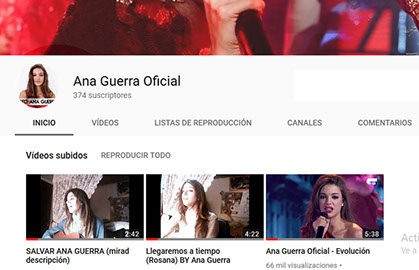
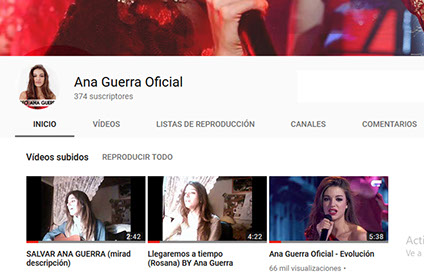
ana

diff --git a/css/fansclub.css b/css/fansclub.css
@@ -1,1 +1,1 @@
-.version.fansclub{color:#000010;background-color:#C19C21;}#page{z-index:1;width:950px;min-height:1199.9499999999994px;background-image:none;border-width:0px;border-color:#000000;background-color:#FFFFFF;border-radius:10px 0px 10px 0px ;padding-bottom:0px;margin-left:auto;margin-right:auto;}#page_position_content{padding-top:34px;width:0.01px;}#pmenuu2999{z-index:3;width:0.01px;margin-left:-32px;}#menuu2999{z-index:3;width:715px;border-width:0px;border-color:transparent;background-color:transparent;position:relative;margin-right:-10000px;margin-top:94px;left:263px;}#u3014{width:75px;min-height:45px;background-color:transparent;position:relative;margin-right:-10000px;}#u3017{width:75px;background-color:#000000;padding-bottom:23px;position:relative;}#u3017:hover{background-color:#7F7F7F;background-color:rgba(0,0,0,0.5);width:75px;min-height:0px;margin:0px;-pie-background:rgba(0,0,0,0.5);}#u3020-4{width:54px;min-height:22px;border-width:0px;border-color:transparent;background-color:transparent;line-height:22px;color:#FFFFFF;font-size:18px;text-align:center;font-family:coda, sans-serif;font-weight:400;position:relative;margin-right:-10000px;top:11px;left:10px;}#u3017:hover #u3020-4{padding-top:0px;padding-bottom:0px;min-height:22px;width:54px;margin:0px -10000px 0px 0px;}#u3017.MuseMenuActive #u3020-4{padding-top:0px;padding-bottom:0px;min-height:22px;width:54px;margin:0px -10000px 0px 0px;}#u3017:hover #u3020-4 p{color:#FFFFFF;visibility:inherit;}#u15282{width:114px;min-height:45px;background-color:transparent;position:relative;margin-right:-10000px;left:77px;}#u15283{width:114px;background-color:#000000;padding-bottom:23px;position:relative;}#u15283:hover{background-color:#7F7F7F;background-color:rgba(0,0,0,0.5);width:114px;min-height:0px;margin:0px;-pie-background:rgba(0,0,0,0.5);}#u15285-4{width:93px;min-height:22px;border-width:0px;border-color:transparent;background-color:transparent;line-height:22px;color:#FFFFFF;font-size:18px;text-align:center;font-family:coda, sans-serif;font-weight:400;position:relative;margin-right:-10000px;top:11px;left:10px;}#u15283:hover #u15285-4{padding-top:0px;padding-bottom:0px;min-height:22px;width:93px;margin:0px -10000px 0px 0px;}#u15283.MuseMenuActive #u15285-4{padding-top:0px;padding-bottom:0px;min-height:22px;width:93px;margin:0px -10000px 0px 0px;}#u15283:hover #u15285-4 p{color:#FFFFFF;visibility:inherit;}#u3021{width:118px;min-height:45px;background-color:transparent;position:relative;margin-right:-10000px;left:193px;}#u3024{width:118px;background-color:#000000;padding-bottom:23px;position:relative;}#u3024.MuseMenuActive{background-color:#7F7F7F;background-color:rgba(0,0,0,0.5);width:118px;min-height:0px;margin:0px;-pie-background:rgba(0,0,0,0.5);}#u3026-4{width:97px;min-height:22px;border-width:0px;border-color:transparent;background-color:transparent;line-height:22px;color:#FFFFFF;font-size:18px;text-align:center;font-family:coda, sans-serif;font-weight:400;position:relative;margin-right:-10000px;top:11px;left:10px;}#u3024:hover #u3026-4{padding-top:0px;padding-bottom:0px;min-height:22px;width:97px;margin:0px -10000px 0px 0px;}#u3024.MuseMenuActive #u3026-4{padding-top:0px;padding-bottom:0px;min-height:22px;width:97px;margin:0px -10000px 0px 0px;}#u3024:hover #u3026-4 p{color:#FFFFFF;visibility:inherit;}#u3007{width:202px;min-height:45px;background-color:transparent;position:relative;margin-right:-10000px;left:313px;}#u3010{width:202px;background-color:#000000;padding-bottom:23px;position:relative;}#u3010:hover{background-color:#7F7F7F;background-color:rgba(0,0,0,0.5);width:202px;min-height:0px;margin:0px;-pie-background:rgba(0,0,0,0.5);}#u3011-4{width:181px;min-height:22px;border-width:0px;border-color:transparent;background-color:transparent;line-height:22px;color:#FFFFFF;font-size:18px;text-align:center;font-family:coda, sans-serif;font-weight:400;position:relative;margin-right:-10000px;top:11px;left:10px;}#u3010:hover #u3011-4{padding-top:0px;padding-bottom:0px;min-height:22px;width:181px;margin:0px -10000px 0px 0px;}#u3010.MuseMenuActive #u3011-4{padding-top:0px;padding-bottom:0px;min-height:22px;width:181px;margin:0px -10000px 0px 0px;}#u3010:hover #u3011-4 p{color:#FFFFFF;visibility:inherit;}#u3000{width:82px;min-height:45px;background-color:transparent;position:relative;margin-right:-10000px;left:517px;}#u3001{width:82px;background-color:#000000;padding-bottom:23px;position:relative;}#u3001:hover{background-color:#7F7F7F;background-color:rgba(0,0,0,0.5);width:82px;min-height:0px;margin:0px;-pie-background:rgba(0,0,0,0.5);}#u3002-4{width:62px;min-height:22px;border-width:0px;border-color:transparent;background-color:transparent;line-height:22px;color:#FFFFFF;font-size:18px;text-align:center;font-family:coda, sans-serif;font-weight:400;position:relative;margin-right:-10000px;top:11px;left:10px;}#u3001:hover #u3002-4{padding-top:0px;padding-bottom:0px;min-height:22px;width:62px;margin:0px -10000px 0px 0px;}#u3001.MuseMenuActive #u3002-4{padding-top:0px;padding-bottom:0px;min-height:22px;width:62px;margin:0px -10000px 0px 0px;}#u3001:hover #u3002-4 p{color:#FFFFFF;visibility:inherit;}#u3028{width:114px;min-height:45px;background-color:transparent;position:relative;margin-right:-10000px;left:601px;}#u3029{width:114px;background-color:#000000;padding-bottom:23px;position:relative;}#u3029:hover{background-color:#7F7F7F;background-color:rgba(0,0,0,0.5);width:114px;min-height:0px;margin:0px;-pie-background:rgba(0,0,0,0.5);}#u3031-4{width:94px;min-height:22px;border-width:0px;border-color:transparent;background-color:transparent;line-height:22px;color:#FFFFFF;font-size:18px;text-align:center;font-family:coda, sans-serif;font-weight:400;position:relative;margin-right:-10000px;top:11px;left:10px;}#u3029:hover #u3031-4{padding-top:0px;padding-bottom:0px;min-height:22px;width:94px;margin:0px -10000px 0px 0px;}#u3029.MuseMenuActive #u3031-4{padding-top:0px;padding-bottom:0px;min-height:22px;width:94px;margin:0px -10000px 0px 0px;}#u3029:hover #u3031-4 p{color:#FFFFFF;visibility:inherit;}.MenuItem{cursor:pointer;}#u2979-4{z-index:60;display:block;vertical-align:top;position:relative;margin-right:-10000px;left:269px;}#u14046{z-index:199;width:250px;background-color:#FFFFFF;background-color:rgba(255,255,255,0.44);border-radius:50px 0px 0px 0px ;position:relative;margin-right:-10000px;margin-top:2px;-pie-background:rgba(255,255,255,0.44);}#u14047-3{z-index:200;width:177px;min-height:51px;background-color:transparent;color:#FFFFFF;font-size:34px;line-height:41px;font-family:coda, sans-serif;font-weight:400;position:relative;margin-right:-10000px;margin-top:11px;left:43px;}#u14048{z-index:203;width:162px;background-color:transparent;opacity:0.64;-ms-filter:"progid:DXImageTransform.Microsoft.Alpha(Opacity=64)";filter:alpha(opacity=64);position:relative;margin-right:-10000px;margin-top:-28px;left:44px;}#u14048_img{margin-left:-15px;margin-right:-15px;}#u14050-4{z-index:205;display:block;vertical-align:top;margin-bottom:-10px;position:relative;margin-right:-10000px;margin-top:119px;left:43px;}#u14051{z-index:209;width:120px;background-color:transparent;position:relative;margin-right:-10000px;margin-top:54px;left:71px;}#u17003-4{z-index:213;width:187px;min-height:15px;text-shadow:0px 0px 23px #FFFFFF,0px 0px 23px #FFFFFF;box-shadow:none;background-color:transparent;letter-spacing:3px;color:#000000;font-size:8px;line-height:10px;font-family:coda, sans-serif;font-weight:400;position:relative;margin-right:-10000px;margin-top:110px;left:44px;}#pu2997{z-index:43;width:0.01px;margin-left:-302px;margin-top:21px;}#u2997{z-index:43;width:1391px;background-color:transparent;position:relative;margin-right:-10000px;left:98px;}#u2997_img{padding-top:2px;padding-right:10px;padding-bottom:2px;}#u3036{z-index:45;width:547px;height:52px;background-color:#FFFFFF;position:relative;margin-right:-10000px;margin-top:481px;}#u2967-5{z-index:46;position:relative;margin-right:-10000px;width:217px;margin-top:496px;left:322px;}#u2967-5_img{display:block;vertical-align:top;}#ppu3072-6{z-index:0;width:0.01px;margin-left:-14px;margin-top:53px;}#pu3072-6{z-index:65;width:0.01px;margin-right:-10000px;margin-left:535px;}#u3072-6{z-index:65;width:436px;min-height:37px;background-color:transparent;font-size:22px;text-align:center;line-height:26px;position:relative;margin-right:-10000px;left:3px;}#u3073-4{z-index:71;width:443px;min-height:2px;background-color:transparent;position:relative;margin-right:-10000px;margin-top:13px;}#u2987-5{z-index:51;width:436px;min-height:37px;background-color:transparent;font-size:22px;text-align:center;line-height:26px;position:relative;margin-right:-10000px;left:3px;}#u3040-4{z-index:56;width:443px;min-height:2px;background-color:transparent;position:relative;margin-right:-10000px;margin-top:13px;}#pu3060{z-index:64;width:0.01px;margin-right:-10000px;margin-left:538px;}#u3060{z-index:64;width:442px;height:290px;background-color:#E2E2E2;background-color:rgba(127,127,127,0.22);border-radius:14px;position:relative;margin-right:-10000px;-pie-background:rgba(127,127,127,0.22);}#u3100{z-index:77;width:424px;background-color:transparent;position:relative;margin-right:-10000px;margin-top:8px;left:9px;}#u3100:hover{width:424px;min-height:0px;margin:8px -10000px 0px 0px;}#u2966{z-index:2;width:442px;height:290px;background-color:#E2E2E2;background-color:rgba(127,127,127,0.22);border-radius:14px;position:relative;margin-right:-10000px;-pie-background:rgba(127,127,127,0.22);}#u3090{z-index:75;width:424px;background-color:transparent;position:relative;margin-right:-10000px;margin-top:8px;left:8px;}#u3090:hover{width:424px;min-height:0px;margin:8px -10000px 0px 0px;}#ppu8604-5{z-index:0;width:0.01px;margin-left:-14px;margin-top:51px;}#pu8604-5{z-index:124;width:0.01px;margin-right:-10000px;margin-left:538px;}#u8604-5{z-index:124;width:436px;min-height:37px;background-color:transparent;font-size:22px;text-align:center;line-height:26px;position:relative;margin-right:-10000px;left:3px;}#u8605-4{z-index:129;width:443px;min-height:2px;background-color:transparent;position:relative;margin-right:-10000px;margin-top:13px;}#u8585-5{z-index:112;width:436px;min-height:37px;background-color:transparent;font-size:22px;text-align:center;line-height:26px;position:relative;margin-right:-10000px;left:3px;}#u8586-4{z-index:117;width:443px;min-height:2px;background-color:transparent;position:relative;margin-right:-10000px;margin-top:13px;}#ppu3060,#ppu8603{z-index:0;width:0.01px;margin-left:-17px;margin-top:11px;}#pu8603{z-index:123;width:0.01px;margin-right:-10000px;margin-left:538px;}#u8603{z-index:123;width:442px;height:290px;background-color:#E2E2E2;background-color:rgba(127,127,127,0.22);border-radius:14px;position:relative;margin-right:-10000px;-pie-background:rgba(127,127,127,0.22);}#u8606{z-index:133;width:424px;background-color:transparent;position:relative;margin-right:-10000px;margin-top:8px;left:8px;}#u8606:hover{width:424px;min-height:0px;margin:8px -10000px 0px 0px;}#u8584{z-index:111;width:442px;height:290px;background-color:#E2E2E2;background-color:rgba(127,127,127,0.22);border-radius:14px;position:relative;margin-right:-10000px;-pie-background:rgba(127,127,127,0.22);}#u8587{z-index:121;width:424px;background-color:transparent;position:relative;margin-right:-10000px;margin-top:8px;left:8px;}#u8587:hover{width:424px;min-height:0px;margin:8px -10000px 0px 0px;}#u3100:hover::before,#u3090:hover::before,#u8606:hover::before,#u8587:hover::before{content:"";position:absolute;pointer-events:none;top:0px;left:0px;bottom:0px;right:0px;box-shadow:inset 3px 3px 4px rgba(255,255,255,0.75), inset -3px -3px 4px rgba(0,0,0,0.75);}#pu21413-4{z-index:241;width:0.01px;margin-left:-11px;margin-top:64px;}#u21413-4{z-index:241;width:436px;min-height:37px;background-color:transparent;font-size:22px;text-align:center;line-height:26px;position:relative;margin-right:-10000px;}#u21416-4{z-index:245;width:436px;min-height:37px;background-color:transparent;font-size:22px;text-align:center;line-height:26px;position:relative;margin-right:-10000px;left:538px;}#u3072-2,#u2987-2,#u8604-2,#u8585-2,#u21413,#u21416{font-weight:bold;}#ppu21410{z-index:0;width:0.01px;margin-left:-17px;}#pu21410{z-index:240;width:0.01px;margin-right:-10000px;margin-top:9px;margin-left:538px;}#u21410{z-index:240;width:442px;height:290px;background-color:#E2E2E2;background-color:rgba(127,127,127,0.22);border-radius:14px;position:relative;margin-right:-10000px;-pie-background:rgba(127,127,127,0.22);}#u21427{z-index:251;width:419px;background-color:transparent;position:relative;margin-right:-10000px;margin-top:11px;left:10px;}#u21407{z-index:239;width:442px;height:290px;background-color:#E2E2E2;background-color:rgba(127,127,127,0.22);border-radius:14px;position:relative;margin-right:-10000px;-pie-background:rgba(127,127,127,0.22);}#u21419{z-index:249;width:421px;background-color:transparent;position:relative;margin-right:-10000px;margin-top:10px;left:9px;}#u21419_img{margin-left:-27px;margin-bottom:-18px;}#pu10013-4{z-index:135;width:0.01px;margin-left:233px;margin-top:101px;}#u10013-4{z-index:135;display:block;vertical-align:top;position:relative;margin-right:-10000px;left:133px;}#u10014-4{z-index:139;display:block;vertical-align:top;position:relative;margin-right:-10000px;margin-top:20px;}#ppu10123{z-index:143;width:0.01px;margin-left:55px;margin-top:20px;}#u10123{z-index:144;height:128px;width:126px;vertical-align:top;position:relative;margin-right:-10000px;margin-top:4px;background:transparent url("../images/u10123.png?crc=59268028") no-repeat 0px 0px;}#u10123:hover{background:transparent url("../images/u10123-r.png?crc=4068604634") no-repeat 0px 0px;}#u10135{z-index:147;height:128px;width:126px;vertical-align:top;position:relative;margin-right:-10000px;margin-top:4px;left:177px;background:transparent url("../images/u10135.png?crc=482554874") no-repeat 0px 0px;}#u10135:hover{background:transparent url("../images/u10135-r.png?crc=4097417959") no-repeat 0px 0px;}#u10147{z-index:150;height:128px;width:126px;vertical-align:top;position:relative;margin-right:-10000px;margin-top:4px;left:355px;background:transparent url("../images/u10147.png?crc=71538605") no-repeat 0px 0px;}#u10147:hover{background:transparent url("../images/u10147-r.png?crc=104320117") no-repeat 0px 0px;}#u10159{z-index:153;height:132px;width:130px;vertical-align:top;position:relative;margin-right:-10000px;left:532px;background:transparent url("../images/u10159.png?crc=504944853") no-repeat 0px 0px;}#u10159:hover{background:transparent url("../images/u10159-r.png?crc=4056053435") no-repeat 0px 0px;}#u10264{z-index:156;height:128px;width:126px;vertical-align:top;position:relative;margin-right:-10000px;left:714px;background:transparent url("../images/u10264.png?crc=4179378580") no-repeat 0px 0px;}#u10264:hover{background:transparent url("../images/u10264-r.png?crc=82452445") no-repeat 0px 0px;}#pu13918-4{z-index:167;width:0.01px;margin-left:55px;margin-top:-4px;}#u13918-4{z-index:167;display:block;vertical-align:top;position:relative;margin-right:-10000px;margin-top:5px;}#u13921-4{z-index:171;display:block;vertical-align:top;position:relative;margin-right:-10000px;margin-top:5px;left:178px;}#u13933-4{z-index:187;display:block;vertical-align:top;position:relative;margin-right:-10000px;margin-top:5px;left:355px;}#u13936-4{z-index:191;display:block;vertical-align:top;position:relative;margin-right:-10000px;margin-top:5px;left:532px;}#u13939-4{z-index:195;display:block;vertical-align:top;position:relative;margin-right:-10000px;left:714px;}#ppu10274{z-index:158;width:0.01px;margin-left:55px;margin-top:30px;}#u10274{z-index:159;height:128px;width:126px;vertical-align:top;position:relative;margin-right:-10000px;margin-top:2px;background:transparent url("../images/u10274.png?crc=304088110") no-repeat 0px 0px;}#u10274:hover{background:transparent url("../images/u10274-r.png?crc=208522902") no-repeat 0px 0px;}#u13894{z-index:162;height:128px;width:126px;vertical-align:top;position:relative;margin-right:-10000px;margin-top:2px;left:177px;background:transparent url("../images/u13894.png?crc=513755857") no-repeat 0px 0px;}#u13894:hover{background:transparent url("../images/u13894-r.png?crc=3779060973") no-repeat 0px 0px;}#u13904{z-index:165;height:128px;width:126px;vertical-align:top;position:relative;margin-right:-10000px;margin-top:2px;left:355px;background:transparent url("../images/u13904.png?crc=3989474495") no-repeat 0px 0px;}#u13904:hover{background:transparent url("../images/u13904-r.png?crc=93106867") no-repeat 0px 0px;}#u17974{z-index:218;height:132px;width:130px;vertical-align:top;position:relative;margin-right:-10000px;left:533px;background:transparent url("../images/u17974.png?crc=3998990833") no-repeat 0px 0px;}#u17974:hover{background:transparent url("../images/u17974-r.png?crc=495730760") no-repeat 0px 0px;}#u20165{z-index:225;height:128px;width:126px;vertical-align:top;position:relative;margin-right:-10000px;margin-top:2px;left:714px;background:transparent url("../images/u20165.png?crc=469558459") no-repeat 0px 0px;}#u20165:hover{background:transparent url("../images/u20165-r.png?crc=353145026") no-repeat 0px 0px;}#pu13930-4{z-index:183;width:0.01px;margin-left:55px;margin-top:-2px;}#u13930-4{z-index:183;display:block;vertical-align:top;position:relative;margin-right:-10000px;}#u13924-4{z-index:175;display:block;vertical-align:top;position:relative;margin-right:-10000px;left:178px;}#u13927-4{z-index:179;display:block;vertical-align:top;position:relative;margin-right:-10000px;left:355px;}#u17984-4{z-index:220;display:block;vertical-align:top;position:relative;margin-right:-10000px;left:533px;}#u20175-4{z-index:227;display:block;vertical-align:top;position:relative;margin-right:-10000px;left:714px;}#u21316{z-index:232;height:128px;width:126px;vertical-align:top;margin-left:55px;margin-top:33px;position:relative;background:transparent url("../images/u21316.png?crc=3568908") no-repeat 0px 0px;}#u21316:hover{background:transparent url("../images/u21316-r.png?crc=136411771") no-repeat 0px 0px;}#u21328-5{z-index:234;display:block;vertical-align:top;margin-left:55px;position:relative;}#u14640{z-index:211;width:50px;background-color:transparent;opacity:0.7;-ms-filter:"progid:DXImageTransform.Microsoft.Alpha(Opacity=70)";filter:alpha(opacity=70);margin-left:900px;margin-top:841px;position:relative;}#pu4091-4{z-index:80;width:0.01px;margin-left:198px;margin-top:37px;}#u4091-4{z-index:80;width:354px;min-height:35px;background-color:transparent;line-height:22px;color:#FFFFFF;font-size:18px;text-align:center;font-weight:normal;position:relative;margin-right:-10000px;left:100px;}#u4094-4{z-index:84;width:553px;min-height:2px;background-color:transparent;color:#FFFFFF;position:relative;margin-right:-10000px;margin-top:18px;}#pu4132-4{z-index:103;width:0.01px;margin-left:71px;margin-top:20px;}#u4132-4{z-index:103;width:74px;min-height:17px;background-color:transparent;color:#FFFFFF;font-size:16px;text-align:center;line-height:19px;position:relative;margin-right:-10000px;}#u4129-4{z-index:99;width:74px;min-height:17px;background-color:transparent;color:#FFFFFF;font-size:16px;text-align:center;line-height:19px;position:relative;margin-right:-10000px;left:367px;}#u4123-4{z-index:95;width:185px;min-height:17px;background-color:transparent;color:#FFFFFF;font-size:16px;text-align:center;line-height:19px;position:relative;margin-right:-10000px;left:677px;}#pu4135{z-index:107;width:0.01px;margin-left:-16px;margin-top:7px;}#u4135{z-index:107;width:248px;background-color:transparent;position:relative;margin-right:-10000px;}#u4145{z-index:109;width:249px;background-color:transparent;position:relative;margin-right:-10000px;left:366px;}#u4113{z-index:93;width:247px;background-color:transparent;position:relative;margin-right:-10000px;margin-top:1px;left:733px;}#pu2984-3{z-index:40;width:0.01px;margin-left:35px;margin-top:62px;}#u2984-3{z-index:40;width:132px;background-color:transparent;position:relative;margin-right:-10000px;margin-top:4px;}#u4098-4{z-index:89;width:369px;min-height:21px;background-color:transparent;position:relative;margin-right:-10000px;left:254px;}.css_verticalspacer .verticalspacer{height:calc(100vh - 3933px);}#u4088{z-index:79;width:1406px;height:296px;background-color:#000000;left:-214px;top:-337px;margin-bottom:-296px;position:relative;}#u4097{z-index:88;width:1406px;height:103px;background-color:#7F7F7F;left:-214px;top:-41px;margin-bottom:-41px;position:relative;}#muse_css_mq,.html{background-color:#FFFFFF;}body{position:relative;min-width:950px;}
+.version.fansclub{color:#0000F4;background-color:#D65385;}#page{z-index:1;width:950px;min-height:1199.9499999999994px;background-image:none;border-width:0px;border-color:#000000;background-color:#FFFFFF;border-radius:10px 0px 10px 0px ;padding-bottom:0px;margin-left:auto;margin-right:auto;}#page_position_content{padding-top:34px;width:0.01px;}#pmenuu2999{z-index:3;width:0.01px;margin-left:-32px;}#menuu2999{z-index:3;width:715px;border-width:0px;border-color:transparent;background-color:transparent;position:relative;margin-right:-10000px;margin-top:94px;left:263px;}#u3014{width:75px;min-height:45px;background-color:transparent;position:relative;margin-right:-10000px;}#u3017{width:75px;background-color:#000000;padding-bottom:23px;position:relative;}#u3017:hover{background-color:#7F7F7F;background-color:rgba(0,0,0,0.5);width:75px;min-height:0px;margin:0px;-pie-background:rgba(0,0,0,0.5);}#u3020-4{width:54px;min-height:22px;border-width:0px;border-color:transparent;background-color:transparent;line-height:22px;color:#FFFFFF;font-size:18px;text-align:center;font-family:coda, sans-serif;font-weight:400;position:relative;margin-right:-10000px;top:11px;left:10px;}#u3017:hover #u3020-4{padding-top:0px;padding-bottom:0px;min-height:22px;width:54px;margin:0px -10000px 0px 0px;}#u3017.MuseMenuActive #u3020-4{padding-top:0px;padding-bottom:0px;min-height:22px;width:54px;margin:0px -10000px 0px 0px;}#u3017:hover #u3020-4 p{color:#FFFFFF;visibility:inherit;}#u15282{width:114px;min-height:45px;background-color:transparent;position:relative;margin-right:-10000px;left:77px;}#u15283{width:114px;background-color:#000000;padding-bottom:23px;position:relative;}#u15283:hover{background-color:#7F7F7F;background-color:rgba(0,0,0,0.5);width:114px;min-height:0px;margin:0px;-pie-background:rgba(0,0,0,0.5);}#u15285-4{width:93px;min-height:22px;border-width:0px;border-color:transparent;background-color:transparent;line-height:22px;color:#FFFFFF;font-size:18px;text-align:center;font-family:coda, sans-serif;font-weight:400;position:relative;margin-right:-10000px;top:11px;left:10px;}#u15283:hover #u15285-4{padding-top:0px;padding-bottom:0px;min-height:22px;width:93px;margin:0px -10000px 0px 0px;}#u15283.MuseMenuActive #u15285-4{padding-top:0px;padding-bottom:0px;min-height:22px;width:93px;margin:0px -10000px 0px 0px;}#u15283:hover #u15285-4 p{color:#FFFFFF;visibility:inherit;}#u3021{width:118px;min-height:45px;background-color:transparent;position:relative;margin-right:-10000px;left:193px;}#u3024{width:118px;background-color:#000000;padding-bottom:23px;position:relative;}#u3024.MuseMenuActive{background-color:#7F7F7F;background-color:rgba(0,0,0,0.5);width:118px;min-height:0px;margin:0px;-pie-background:rgba(0,0,0,0.5);}#u3026-4{width:97px;min-height:22px;border-width:0px;border-color:transparent;background-color:transparent;line-height:22px;color:#FFFFFF;font-size:18px;text-align:center;font-family:coda, sans-serif;font-weight:400;position:relative;margin-right:-10000px;top:11px;left:10px;}#u3024:hover #u3026-4{padding-top:0px;padding-bottom:0px;min-height:22px;width:97px;margin:0px -10000px 0px 0px;}#u3024.MuseMenuActive #u3026-4{padding-top:0px;padding-bottom:0px;min-height:22px;width:97px;margin:0px -10000px 0px 0px;}#u3024:hover #u3026-4 p{color:#FFFFFF;visibility:inherit;}#u3007{width:202px;min-height:45px;background-color:transparent;position:relative;margin-right:-10000px;left:313px;}#u3010{width:202px;background-color:#000000;padding-bottom:23px;position:relative;}#u3010:hover{background-color:#7F7F7F;background-color:rgba(0,0,0,0.5);width:202px;min-height:0px;margin:0px;-pie-background:rgba(0,0,0,0.5);}#u3011-4{width:181px;min-height:22px;border-width:0px;border-color:transparent;background-color:transparent;line-height:22px;color:#FFFFFF;font-size:18px;text-align:center;font-family:coda, sans-serif;font-weight:400;position:relative;margin-right:-10000px;top:11px;left:10px;}#u3010:hover #u3011-4{padding-top:0px;padding-bottom:0px;min-height:22px;width:181px;margin:0px -10000px 0px 0px;}#u3010.MuseMenuActive #u3011-4{padding-top:0px;padding-bottom:0px;min-height:22px;width:181px;margin:0px -10000px 0px 0px;}#u3010:hover #u3011-4 p{color:#FFFFFF;visibility:inherit;}#u3000{width:82px;min-height:45px;background-color:transparent;position:relative;margin-right:-10000px;left:517px;}#u3001{width:82px;background-color:#000000;padding-bottom:23px;position:relative;}#u3001:hover{background-color:#7F7F7F;background-color:rgba(0,0,0,0.5);width:82px;min-height:0px;margin:0px;-pie-background:rgba(0,0,0,0.5);}#u3002-4{width:62px;min-height:22px;border-width:0px;border-color:transparent;background-color:transparent;line-height:22px;color:#FFFFFF;font-size:18px;text-align:center;font-family:coda, sans-serif;font-weight:400;position:relative;margin-right:-10000px;top:11px;left:10px;}#u3001:hover #u3002-4{padding-top:0px;padding-bottom:0px;min-height:22px;width:62px;margin:0px -10000px 0px 0px;}#u3001.MuseMenuActive #u3002-4{padding-top:0px;padding-bottom:0px;min-height:22px;width:62px;margin:0px -10000px 0px 0px;}#u3001:hover #u3002-4 p{color:#FFFFFF;visibility:inherit;}#u3028{width:114px;min-height:45px;background-color:transparent;position:relative;margin-right:-10000px;left:601px;}#u3029{width:114px;background-color:#000000;padding-bottom:23px;position:relative;}#u3029:hover{background-color:#7F7F7F;background-color:rgba(0,0,0,0.5);width:114px;min-height:0px;margin:0px;-pie-background:rgba(0,0,0,0.5);}#u3031-4{width:94px;min-height:22px;border-width:0px;border-color:transparent;background-color:transparent;line-height:22px;color:#FFFFFF;font-size:18px;text-align:center;font-family:coda, sans-serif;font-weight:400;position:relative;margin-right:-10000px;top:11px;left:10px;}#u3029:hover #u3031-4{padding-top:0px;padding-bottom:0px;min-height:22px;width:94px;margin:0px -10000px 0px 0px;}#u3029.MuseMenuActive #u3031-4{padding-top:0px;padding-bottom:0px;min-height:22px;width:94px;margin:0px -10000px 0px 0px;}#u3029:hover #u3031-4 p{color:#FFFFFF;visibility:inherit;}.MenuItem{cursor:pointer;}#u2979-4{z-index:60;display:block;vertical-align:top;position:relative;margin-right:-10000px;left:269px;}#u14046{z-index:199;width:250px;background-color:#FFFFFF;background-color:rgba(255,255,255,0.44);border-radius:50px 0px 0px 0px ;position:relative;margin-right:-10000px;margin-top:2px;-pie-background:rgba(255,255,255,0.44);}#u14047-3{z-index:200;width:177px;min-height:51px;background-color:transparent;color:#FFFFFF;font-size:34px;line-height:41px;font-family:coda, sans-serif;font-weight:400;position:relative;margin-right:-10000px;margin-top:11px;left:43px;}#u14048{z-index:203;width:162px;background-color:transparent;opacity:0.64;-ms-filter:"progid:DXImageTransform.Microsoft.Alpha(Opacity=64)";filter:alpha(opacity=64);position:relative;margin-right:-10000px;margin-top:-28px;left:44px;}#u14048_img{margin-left:-15px;margin-right:-15px;}#u14050-4{z-index:205;display:block;vertical-align:top;margin-bottom:-10px;position:relative;margin-right:-10000px;margin-top:119px;left:43px;}#u14051{z-index:209;width:120px;background-color:transparent;position:relative;margin-right:-10000px;margin-top:54px;left:71px;}#u17003-4{z-index:213;width:187px;min-height:15px;text-shadow:0px 0px 23px #FFFFFF,0px 0px 23px #FFFFFF;box-shadow:none;background-color:transparent;letter-spacing:3px;color:#000000;font-size:8px;line-height:10px;font-family:coda, sans-serif;font-weight:400;position:relative;margin-right:-10000px;margin-top:110px;left:44px;}#pu2997{z-index:43;width:0.01px;margin-left:-302px;margin-top:21px;}#u2997{z-index:43;width:1391px;background-color:transparent;position:relative;margin-right:-10000px;left:98px;}#u2997_img{padding-top:2px;padding-right:10px;padding-bottom:2px;}#u3036{z-index:45;width:547px;height:52px;background-color:#FFFFFF;position:relative;margin-right:-10000px;margin-top:481px;}#u2967-5{z-index:46;position:relative;margin-right:-10000px;width:217px;margin-top:496px;left:322px;}#u2967-5_img{display:block;vertical-align:top;}#ppu3072-6{z-index:0;width:0.01px;margin-left:-14px;margin-top:53px;}#pu3072-6{z-index:65;width:0.01px;margin-right:-10000px;margin-left:535px;}#u3072-6{z-index:65;width:436px;min-height:37px;background-color:transparent;font-size:22px;text-align:center;line-height:26px;position:relative;margin-right:-10000px;left:3px;}#u3073-4{z-index:71;width:443px;min-height:2px;background-color:transparent;position:relative;margin-right:-10000px;margin-top:13px;}#u2987-5{z-index:51;width:436px;min-height:37px;background-color:transparent;font-size:22px;text-align:center;line-height:26px;position:relative;margin-right:-10000px;left:3px;}#u3040-4{z-index:56;width:443px;min-height:2px;background-color:transparent;position:relative;margin-right:-10000px;margin-top:13px;}#pu3060{z-index:64;width:0.01px;margin-right:-10000px;margin-left:538px;}#u3060{z-index:64;width:442px;height:290px;background-color:#E2E2E2;background-color:rgba(127,127,127,0.22);border-radius:14px;position:relative;margin-right:-10000px;-pie-background:rgba(127,127,127,0.22);}#u3100{z-index:77;width:424px;background-color:transparent;position:relative;margin-right:-10000px;margin-top:8px;left:9px;}#u3100:hover{width:424px;min-height:0px;margin:8px -10000px 0px 0px;}#u2966{z-index:2;width:442px;height:290px;background-color:#E2E2E2;background-color:rgba(127,127,127,0.22);border-radius:14px;position:relative;margin-right:-10000px;-pie-background:rgba(127,127,127,0.22);}#u3090{z-index:75;width:424px;background-color:transparent;position:relative;margin-right:-10000px;margin-top:8px;left:8px;}#u3090:hover{width:424px;min-height:0px;margin:8px -10000px 0px 0px;}#ppu8604-5{z-index:0;width:0.01px;margin-left:-14px;margin-top:51px;}#pu8604-5{z-index:124;width:0.01px;margin-right:-10000px;margin-left:538px;}#u8604-5{z-index:124;width:436px;min-height:37px;background-color:transparent;font-size:22px;text-align:center;line-height:26px;position:relative;margin-right:-10000px;left:3px;}#u8605-4{z-index:129;width:443px;min-height:2px;background-color:transparent;position:relative;margin-right:-10000px;margin-top:13px;}#u8585-5{z-index:112;width:436px;min-height:37px;background-color:transparent;font-size:22px;text-align:center;line-height:26px;position:relative;margin-right:-10000px;left:3px;}#u8586-4{z-index:117;width:443px;min-height:2px;background-color:transparent;position:relative;margin-right:-10000px;margin-top:13px;}#ppu3060,#ppu8603{z-index:0;width:0.01px;margin-left:-17px;margin-top:11px;}#pu8603{z-index:123;width:0.01px;margin-right:-10000px;margin-left:538px;}#u8603{z-index:123;width:442px;height:290px;background-color:#E2E2E2;background-color:rgba(127,127,127,0.22);border-radius:14px;position:relative;margin-right:-10000px;-pie-background:rgba(127,127,127,0.22);}#u8606{z-index:133;width:424px;background-color:transparent;position:relative;margin-right:-10000px;margin-top:8px;left:8px;}#u8606:hover{width:424px;min-height:0px;margin:8px -10000px 0px 0px;}#u8584{z-index:111;width:442px;height:290px;background-color:#E2E2E2;background-color:rgba(127,127,127,0.22);border-radius:14px;position:relative;margin-right:-10000px;-pie-background:rgba(127,127,127,0.22);}#u8587{z-index:121;width:424px;background-color:transparent;position:relative;margin-right:-10000px;margin-top:8px;left:8px;}#u8587:hover{width:424px;min-height:0px;margin:8px -10000px 0px 0px;}#ppu21416-4{z-index:0;width:0.01px;margin-left:-11px;margin-top:64px;}#pu21416-4{z-index:245;width:0.01px;margin-right:-10000px;margin-left:538px;}#u21416-4{z-index:245;width:436px;min-height:37px;background-color:transparent;font-size:22px;text-align:center;line-height:26px;position:relative;margin-right:-10000px;}#u21443-4{z-index:253;width:443px;min-height:2px;background-color:transparent;position:relative;margin-right:-10000px;margin-top:14px;}#u21413-4{z-index:241;width:436px;min-height:37px;background-color:transparent;font-size:22px;text-align:center;line-height:26px;position:relative;margin-right:-10000px;}#u3072-2,#u2987-2,#u8604-2,#u8585-2,#u21416,#u21413{font-weight:bold;}#u21446-4{z-index:257;width:443px;min-height:2px;background-color:transparent;position:relative;margin-right:-10000px;margin-top:14px;}#ppu21410{z-index:0;width:0.01px;margin-left:-17px;}#pu21410{z-index:240;width:0.01px;margin-right:-10000px;margin-left:538px;}#u21410{z-index:240;width:442px;height:290px;background-color:#E2E2E2;background-color:rgba(127,127,127,0.22);border-radius:14px;position:relative;margin-right:-10000px;-pie-background:rgba(127,127,127,0.22);}#u21427{z-index:251;width:424px;background-color:transparent;position:relative;margin-right:-10000px;margin-top:9px;left:10px;}#u21427:hover{width:424px;min-height:0px;margin:9px -10000px 0px 0px;}#u21407{z-index:239;width:442px;height:290px;background-color:#E2E2E2;background-color:rgba(127,127,127,0.22);border-radius:14px;position:relative;margin-right:-10000px;-pie-background:rgba(127,127,127,0.22);}#u21419{z-index:249;width:421px;background-color:transparent;position:relative;margin-right:-10000px;margin-top:10px;left:9px;}#u21419:hover{width:421px;min-height:0px;margin:10px -10000px 0px 0px;}#u3100:hover::before,#u3090:hover::before,#u8606:hover::before,#u8587:hover::before,#u21427:hover::before,#u21419:hover::before{content:"";position:absolute;pointer-events:none;top:0px;left:0px;bottom:0px;right:0px;box-shadow:inset 3px 3px 4px rgba(255,255,255,0.75), inset -3px -3px 4px rgba(0,0,0,0.75);}#u21419_img{margin-left:-27px;margin-bottom:-18px;}#pu10013-4{z-index:135;width:0.01px;margin-left:233px;margin-top:110px;}#u10013-4{z-index:135;display:block;vertical-align:top;position:relative;margin-right:-10000px;left:133px;}#u10014-4{z-index:139;display:block;vertical-align:top;position:relative;margin-right:-10000px;margin-top:20px;}#ppu10123{z-index:143;width:0.01px;margin-left:55px;margin-top:20px;}#u10123{z-index:144;height:128px;width:126px;vertical-align:top;position:relative;margin-right:-10000px;margin-top:4px;background:transparent url("../images/u10123.png?crc=59268028") no-repeat 0px 0px;}#u10123:hover{background:transparent url("../images/u10123-r.png?crc=4068604634") no-repeat 0px 0px;}#u10135{z-index:147;height:128px;width:126px;vertical-align:top;position:relative;margin-right:-10000px;margin-top:4px;left:177px;background:transparent url("../images/u10135.png?crc=482554874") no-repeat 0px 0px;}#u10135:hover{background:transparent url("../images/u10135-r.png?crc=4097417959") no-repeat 0px 0px;}#u10147{z-index:150;height:128px;width:126px;vertical-align:top;position:relative;margin-right:-10000px;margin-top:4px;left:355px;background:transparent url("../images/u10147.png?crc=71538605") no-repeat 0px 0px;}#u10147:hover{background:transparent url("../images/u10147-r.png?crc=104320117") no-repeat 0px 0px;}#u10159{z-index:153;height:132px;width:130px;vertical-align:top;position:relative;margin-right:-10000px;left:532px;background:transparent url("../images/u10159.png?crc=504944853") no-repeat 0px 0px;}#u10159:hover{background:transparent url("../images/u10159-r.png?crc=4056053435") no-repeat 0px 0px;}#u10264{z-index:156;height:128px;width:126px;vertical-align:top;position:relative;margin-right:-10000px;left:714px;background:transparent url("../images/u10264.png?crc=4179378580") no-repeat 0px 0px;}#u10264:hover{background:transparent url("../images/u10264-r.png?crc=82452445") no-repeat 0px 0px;}#pu13918-4{z-index:167;width:0.01px;margin-left:55px;margin-top:-4px;}#u13918-4{z-index:167;display:block;vertical-align:top;position:relative;margin-right:-10000px;margin-top:5px;}#u13921-4{z-index:171;display:block;vertical-align:top;position:relative;margin-right:-10000px;margin-top:5px;left:178px;}#u13933-4{z-index:187;display:block;vertical-align:top;position:relative;margin-right:-10000px;margin-top:5px;left:355px;}#u13936-4{z-index:191;display:block;vertical-align:top;position:relative;margin-right:-10000px;margin-top:5px;left:532px;}#u13939-4{z-index:195;display:block;vertical-align:top;position:relative;margin-right:-10000px;left:714px;}#ppu10274{z-index:158;width:0.01px;margin-left:55px;margin-top:30px;}#u10274{z-index:159;height:128px;width:126px;vertical-align:top;position:relative;margin-right:-10000px;margin-top:2px;background:transparent url("../images/u10274.png?crc=304088110") no-repeat 0px 0px;}#u10274:hover{background:transparent url("../images/u10274-r.png?crc=208522902") no-repeat 0px 0px;}#u13894{z-index:162;height:128px;width:126px;vertical-align:top;position:relative;margin-right:-10000px;margin-top:2px;left:177px;background:transparent url("../images/u13894.png?crc=513755857") no-repeat 0px 0px;}#u13894:hover{background:transparent url("../images/u13894-r.png?crc=3779060973") no-repeat 0px 0px;}#u13904{z-index:165;height:128px;width:126px;vertical-align:top;position:relative;margin-right:-10000px;margin-top:2px;left:355px;background:transparent url("../images/u13904.png?crc=3989474495") no-repeat 0px 0px;}#u13904:hover{background:transparent url("../images/u13904-r.png?crc=93106867") no-repeat 0px 0px;}#u17974{z-index:218;height:132px;width:130px;vertical-align:top;position:relative;margin-right:-10000px;left:533px;background:transparent url("../images/u17974.png?crc=3998990833") no-repeat 0px 0px;}#u17974:hover{background:transparent url("../images/u17974-r.png?crc=495730760") no-repeat 0px 0px;}#u20165{z-index:225;height:128px;width:126px;vertical-align:top;position:relative;margin-right:-10000px;margin-top:2px;left:714px;background:transparent url("../images/u20165.png?crc=469558459") no-repeat 0px 0px;}#u20165:hover{background:transparent url("../images/u20165-r.png?crc=353145026") no-repeat 0px 0px;}#pu13930-4{z-index:183;width:0.01px;margin-left:55px;margin-top:-2px;}#u13930-4{z-index:183;display:block;vertical-align:top;position:relative;margin-right:-10000px;}#u13924-4{z-index:175;display:block;vertical-align:top;position:relative;margin-right:-10000px;left:178px;}#u13927-4{z-index:179;display:block;vertical-align:top;position:relative;margin-right:-10000px;left:355px;}#u17984-4{z-index:220;display:block;vertical-align:top;position:relative;margin-right:-10000px;left:533px;}#u20175-4{z-index:227;display:block;vertical-align:top;position:relative;margin-right:-10000px;left:714px;}#u21316{z-index:232;height:128px;width:126px;vertical-align:top;margin-left:55px;margin-top:33px;position:relative;background:transparent url("../images/u21316.png?crc=3568908") no-repeat 0px 0px;}#u21316:hover{background:transparent url("../images/u21316-r.png?crc=136411771") no-repeat 0px 0px;}#u21328-5{z-index:234;display:block;vertical-align:top;margin-left:55px;position:relative;}#u14640{z-index:211;width:50px;background-color:transparent;opacity:0.7;-ms-filter:"progid:DXImageTransform.Microsoft.Alpha(Opacity=70)";filter:alpha(opacity=70);margin-left:900px;margin-top:841px;position:relative;}#pu4091-4{z-index:80;width:0.01px;margin-left:198px;margin-top:37px;}#u4091-4{z-index:80;width:354px;min-height:35px;background-color:transparent;line-height:22px;color:#FFFFFF;font-size:18px;text-align:center;font-weight:normal;position:relative;margin-right:-10000px;left:100px;}#u4094-4{z-index:84;width:553px;min-height:2px;background-color:transparent;color:#FFFFFF;position:relative;margin-right:-10000px;margin-top:18px;}#pu4132-4{z-index:103;width:0.01px;margin-left:71px;margin-top:20px;}#u4132-4{z-index:103;width:74px;min-height:17px;background-color:transparent;color:#FFFFFF;font-size:16px;text-align:center;line-height:19px;position:relative;margin-right:-10000px;}#u4129-4{z-index:99;width:74px;min-height:17px;background-color:transparent;color:#FFFFFF;font-size:16px;text-align:center;line-height:19px;position:relative;margin-right:-10000px;left:367px;}#u4123-4{z-index:95;width:185px;min-height:17px;background-color:transparent;color:#FFFFFF;font-size:16px;text-align:center;line-height:19px;position:relative;margin-right:-10000px;left:677px;}#pu4135{z-index:107;width:0.01px;margin-left:-16px;margin-top:7px;}#u4135{z-index:107;width:248px;background-color:transparent;position:relative;margin-right:-10000px;}#u4145{z-index:109;width:249px;background-color:transparent;position:relative;margin-right:-10000px;left:366px;}#u4113{z-index:93;width:247px;background-color:transparent;position:relative;margin-right:-10000px;margin-top:1px;left:733px;}#pu2984-3{z-index:40;width:0.01px;margin-left:35px;margin-top:62px;}#u2984-3{z-index:40;width:132px;background-color:transparent;position:relative;margin-right:-10000px;margin-top:4px;}#u4098-4{z-index:89;width:369px;min-height:21px;background-color:transparent;position:relative;margin-right:-10000px;left:254px;}.css_verticalspacer .verticalspacer{height:calc(100vh - 3933px);}#u4088{z-index:79;width:1406px;height:296px;background-color:#000000;left:-214px;top:-337px;margin-bottom:-296px;position:relative;}#u4097{z-index:88;width:1406px;height:103px;background-color:#7F7F7F;left:-214px;top:-41px;margin-bottom:-41px;position:relative;}#muse_css_mq,.html{background-color:#FFFFFF;}body{position:relative;min-width:950px;}

diff --git a/fansclub.html b/fansclub.html
@@ -16,7 +16,7 @@ if(typeof Muse == "undefined") window.Muse = {}; window.Muse.assets = {"required
   <title>AnaGuerraOficial.com</title>
   <!-- CSS -->
   <link rel="stylesheet" type="text/css" href="css/site_global.css?crc=443350757"/>
-  <link rel="stylesheet" type="text/css" href="css/fansclub.css?crc=281123873" id="pagesheet"/>
+  <link rel="stylesheet" type="text/css" href="css/fansclub.css?crc=4107686789" id="pagesheet"/>
   <!-- Other scripts -->
   <script type="text/javascript">
    var __adobewebfontsappname__ = "muse";
@@ -122,18 +122,26 @@ if(typeof Muse == "undefined") window.Muse = {}; window.Muse.assets = {"required
      <div class="rgba-background rounded-corners grpelem" id="u8584"><!-- content --></div>
      <a class="nonblock nontext clip_frame grpelem" id="u8587" href="https://twitter.com/PuraSombra_" target="_blank"><!-- image --><img class="block" id="u8587_img" src="images/purasombra.jpg?crc=481519567" alt="" width="424" height="273"/></a>
     </div>
-    <div class="clearfix colelem" id="pu21413-4"><!-- group -->
+    <div class="clearfix colelem" id="ppu21416-4"><!-- group -->
+     <div class="clearfix grpelem" id="pu21416-4"><!-- group -->
+      <div class="clearfix grpelem" id="u21416-4"><!-- content -->
+       <p><span id="u21416">Youtube</span></p>
+      </div>
+      <div class="clearfix grpelem" id="u21443-4"><!-- content -->
+       <p>_______________________________________________________</p>
+      </div>
+     </div>
      <div class="clearfix grpelem" id="u21413-4"><!-- content -->
       <p><span id="u21413">Facebook Club de Fans Oficial</span></p>
      </div>
-     <div class="clearfix grpelem" id="u21416-4"><!-- content -->
-      <p><span id="u21416">Youtube</span></p>
+     <div class="clearfix grpelem" id="u21446-4"><!-- content -->
+      <p>_______________________________________________________</p>
      </div>
     </div>
     <div class="clearfix colelem" id="ppu21410"><!-- group -->
      <div class="clearfix grpelem" id="pu21410"><!-- group -->
       <div class="rgba-background rounded-corners grpelem" id="u21410"><!-- content --></div>
-      <a class="nonblock nontext clip_frame grpelem" id="u21427" href="http://www.youtube.com/c/AnaGuerraOficial"><!-- image --><img class="block" id="u21427_img" src="images/youtube.jpg?crc=4052250135" alt="" width="419" height="270"/></a>
+      <a class="nonblock nontext clip_frame grpelem" id="u21427" href="http://www.youtube.com/c/AnaGuerraOficial"><!-- image --><img class="block" id="u21427_img" src="images/youtube.jpg?crc=185961768" alt="" width="424" height="273"/></a>
      </div>
      <div class="rgba-background rounded-corners grpelem" id="u21407"><!-- content --></div>
      <a class="nonblock nontext clip_frame clearfix grpelem" id="u21419" href="https://www.facebook.com/AnaGuerraCFOficial/"><!-- image --><img class="position_content" id="u21419_img" src="images/face.jpg?crc=486524348" alt="" width="448" height="289"/></a>
